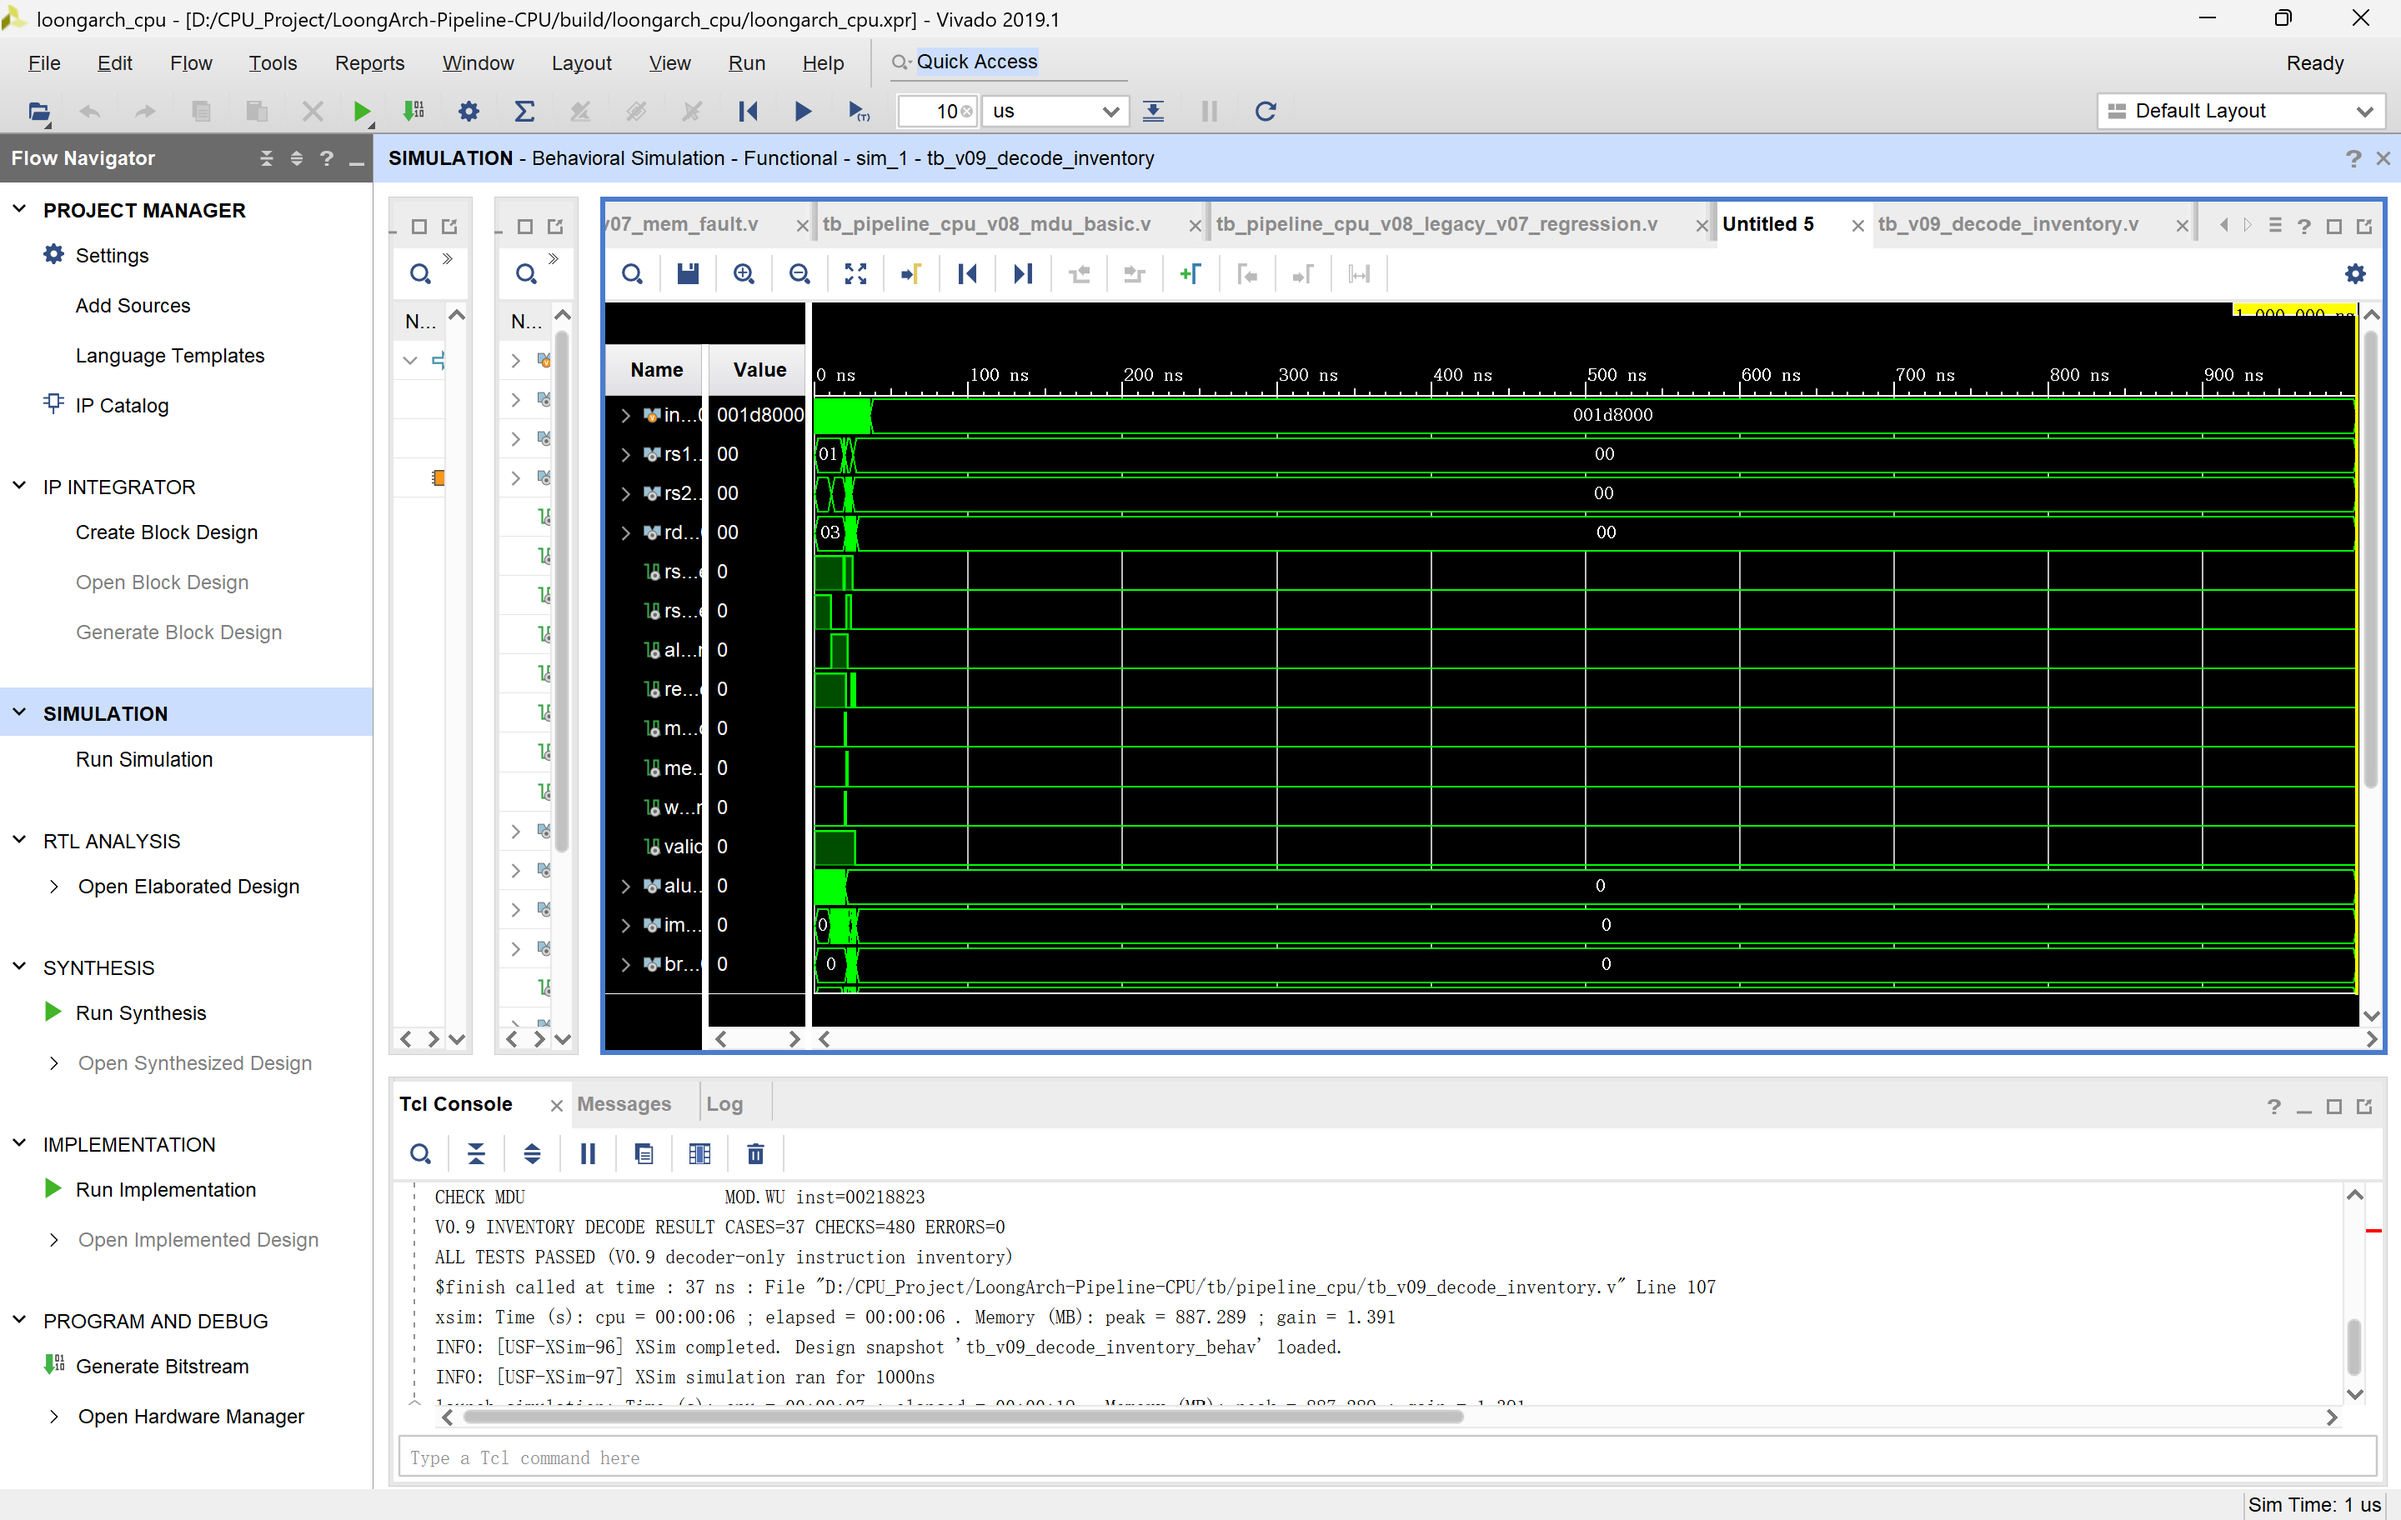
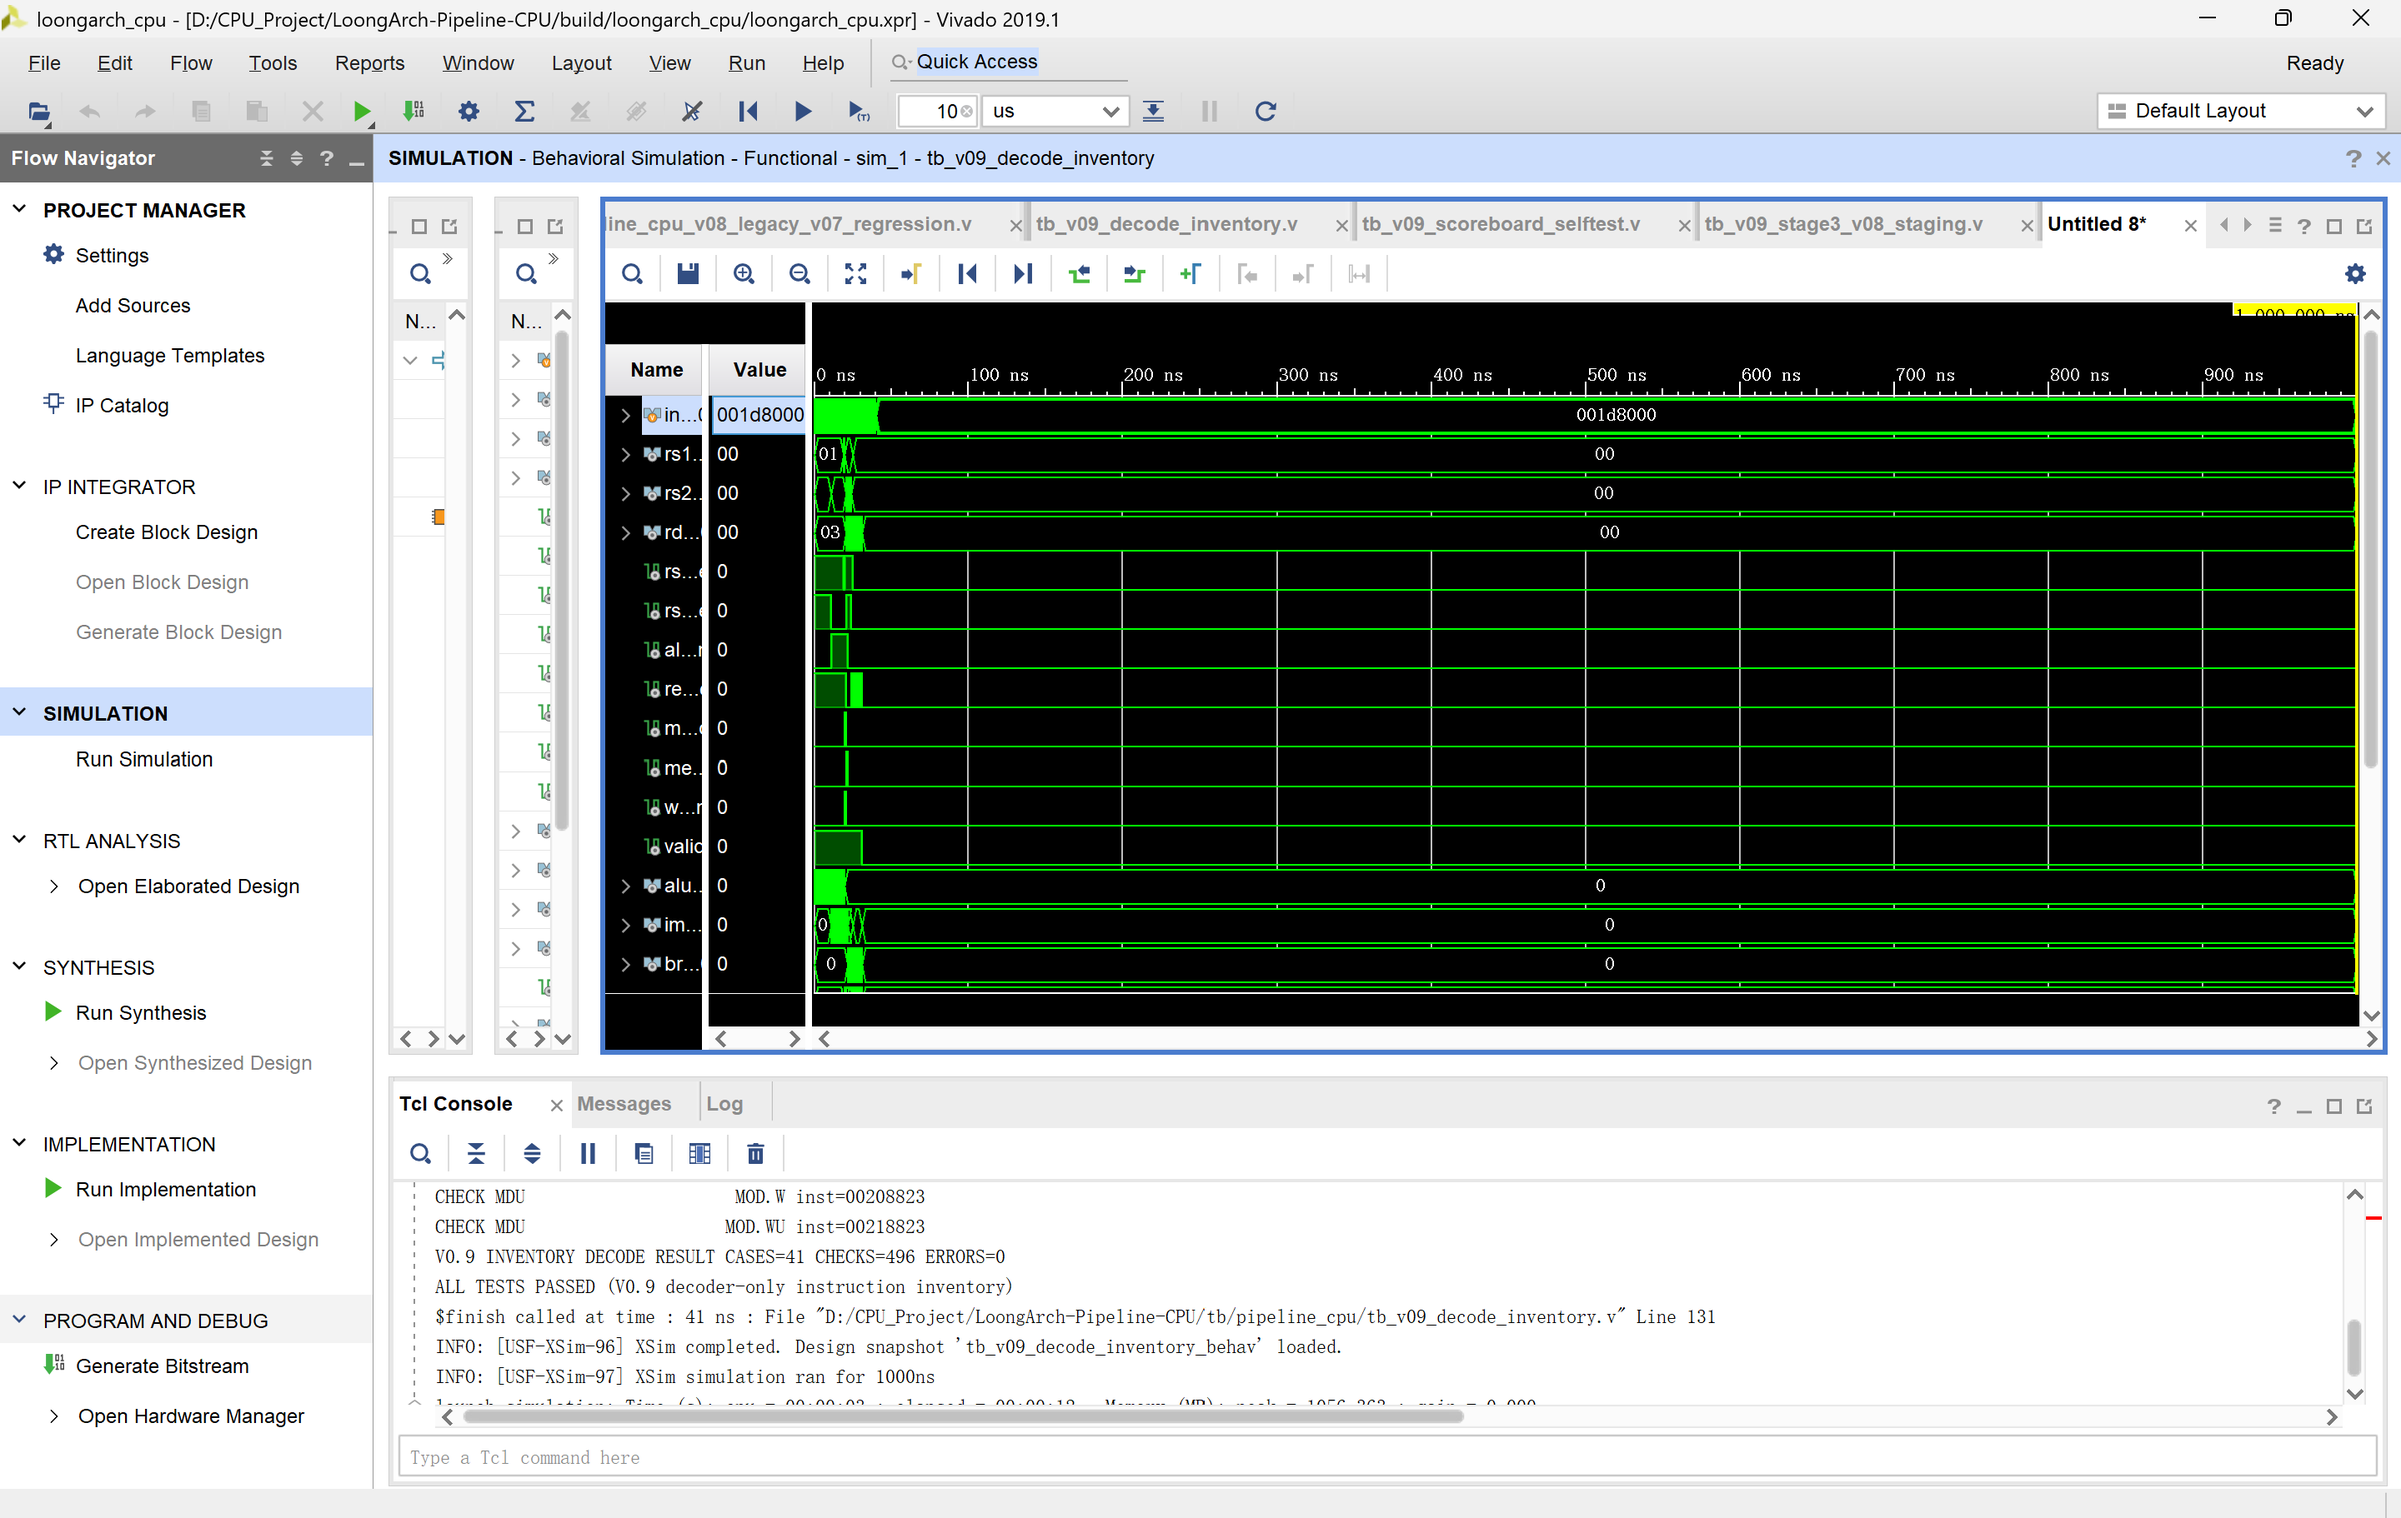
test(cpu): verify B/BL split immediates and branch targets

diff --git a/docs/pipeline_cpu/v09_instruction_coverage_plan.md b/docs/pipeline_cpu/v09_instruction_coverage_plan.md
@@ -69,6 +69,19 @@
 | 33 | `MOD.W` | MDU乘除法 | `0xFFFF8000` | `0x00208000` | `0x00208823` | WB: r3=0x00000002 |
 | 34 | `MOD.WU` | MDU乘除法 | `0xFFFF8000` | `0x00218000` | `0x00218823` | WB: r3=0x00000002 |
 
+### B/BL 的 I26 分段立即数核对（PR #39 审核补充）
+
+LoongArch B/BL 将 26 位立即数分散在指令的两个字段中：`offs26 = {inst[9:0], inst[25:10]}`。
+因此字节偏移为 `SignExtend({offs26, 2'b00})`，目标地址以**本条分支指令 PC** 为基准。
+
+- `PC=0x00001000`、目标 `0x0000100C`：偏移 `+12`，`offs26=3`，低 16 位字段 `inst[25:10]=16'h0003`、高 10 位字段 `inst[9:0]=0`。
+- 正确 B 示例是 `32'h50000C00`；正确 BL 示例是 `32'h54000C00`，并且 BL 应写回 `r1=0x00001004`。
+- `32'h50000003` / `32'h54000003` 会把 3 写到 `inst[9:0]`，解出 `offs26=26'h30000`，字节偏移为 `0x000C0000`，目标 **`0x000C1000`**，并不是 `0x100C`。
+
+此结论与已有 `rtl/memory_cache/imm_gen.v` 的 `imm_sel=6` 拼接逻辑一致，且符合 LoongArch 官方 B/BL 语义。
+
+本次补充的 Decoder + Immediate Generator 测试将直接检查这两种编码及相应目标值；**该检查依然不是 V0.9 CPU 的真实分支执行验证**。
+
 ## 三、为什么第一批先做“独立 Decoder 测试”
 
 已新增 `tb/pipeline_cpu/tb_v09_decode_inventory.v`，实例化**原有正式 `decoder` 与辅助 `mdu_decode_v08`**，使用 34 条机器码逐条验证：
@@ -78,11 +91,11 @@
 3. 三个非法字不会错误触发两套译码。
 4. 每个字段错误均打印独立 FAIL；错误使用 `$fatal(1,...)` 使自动回归失败退出。
 
-**本项只验证组合译码结果**，不会模拟五级流水线，也不会验证真实运算、分支目标、WB/Store 次数或 FPGA 实机行为。
+**本项验证 Decoder 和 Immediate Generator 组合输出**，包括 B/BL 偏移与计算得到的目标 PC；不会模拟五级流水线，也不会验证真实分支跳转、WB/Store 次数或 FPGA 实机行为。
 
 ### Vivado 2019.1 使用步骤
 
-1. 保留原有 `rtl/common/decoder.v` 和 `rtl_test_only/mdu_decode_v08.v` 作为 Design Sources；本包**不提供、不覆盖**这两个模块。
+1. 保留原有 `rtl/common/decoder.v`、`rtl_test_only/mdu_decode_v08.v` 和 `rtl/memory_cache/imm_gen.v` 作为 Design Sources；本包**不提供、不覆盖**这三个模块。
 2. 确认 `cpu_defs.vh` 的原有 include 引用在工程中可解析；不修改稳定 Decoder 的 include 行。
 3. 加入 `tb/pipeline_cpu/tb_v09_decode_inventory.v` 作为 Simulation Sources。
 4. Set as Top：`tb_v09_decode_inventory`，运行 Behavioral Simulation，`run all`。
